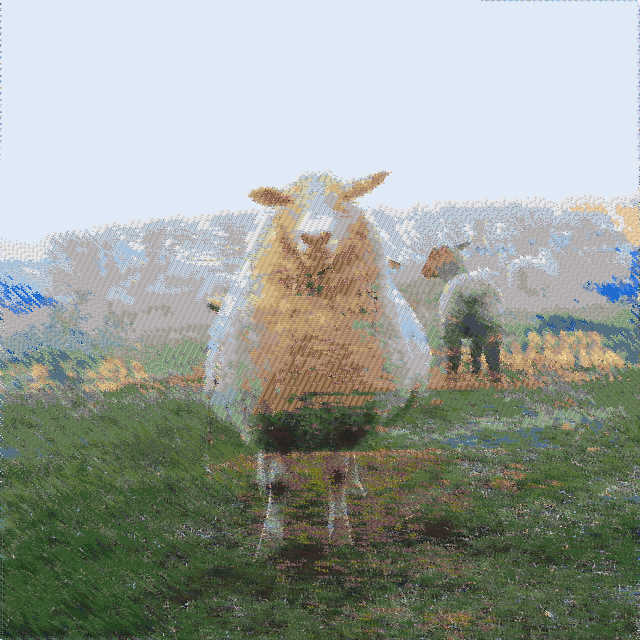
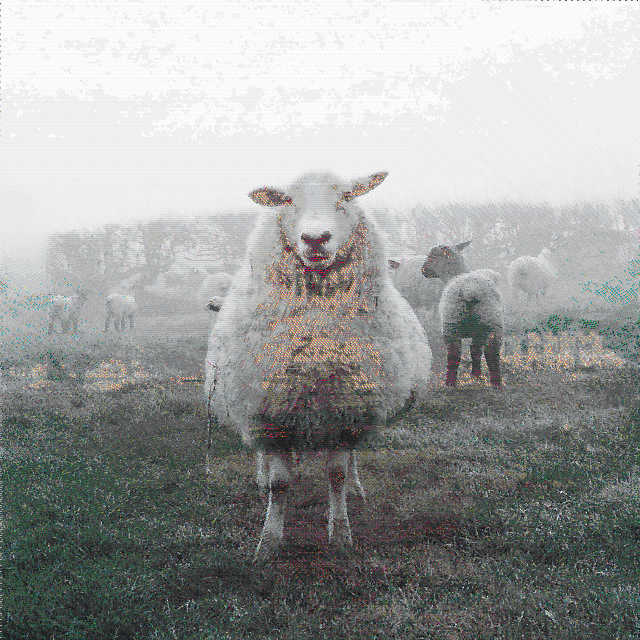
0076 - node --harmony /index.js

diff --git a/sketches/0076/index.js b/sketches/0076/index.js
@@ -86,11 +86,12 @@ var getPath = function(imgId){
 
 co(function*(){
 
-	var BLOCK_SIZE = 12;
-	var NUM_COLORS = 48;
+	var BLOCK_SIZE = 6;
+	var NUM_COLORS = 256;
 
 	var mash = function(a){
-		return Math.max.apply(null, a);
+		a.sort();
+		return a[0]+a[1];
 	}
 
 	var numImgs = listOfImages.length;
